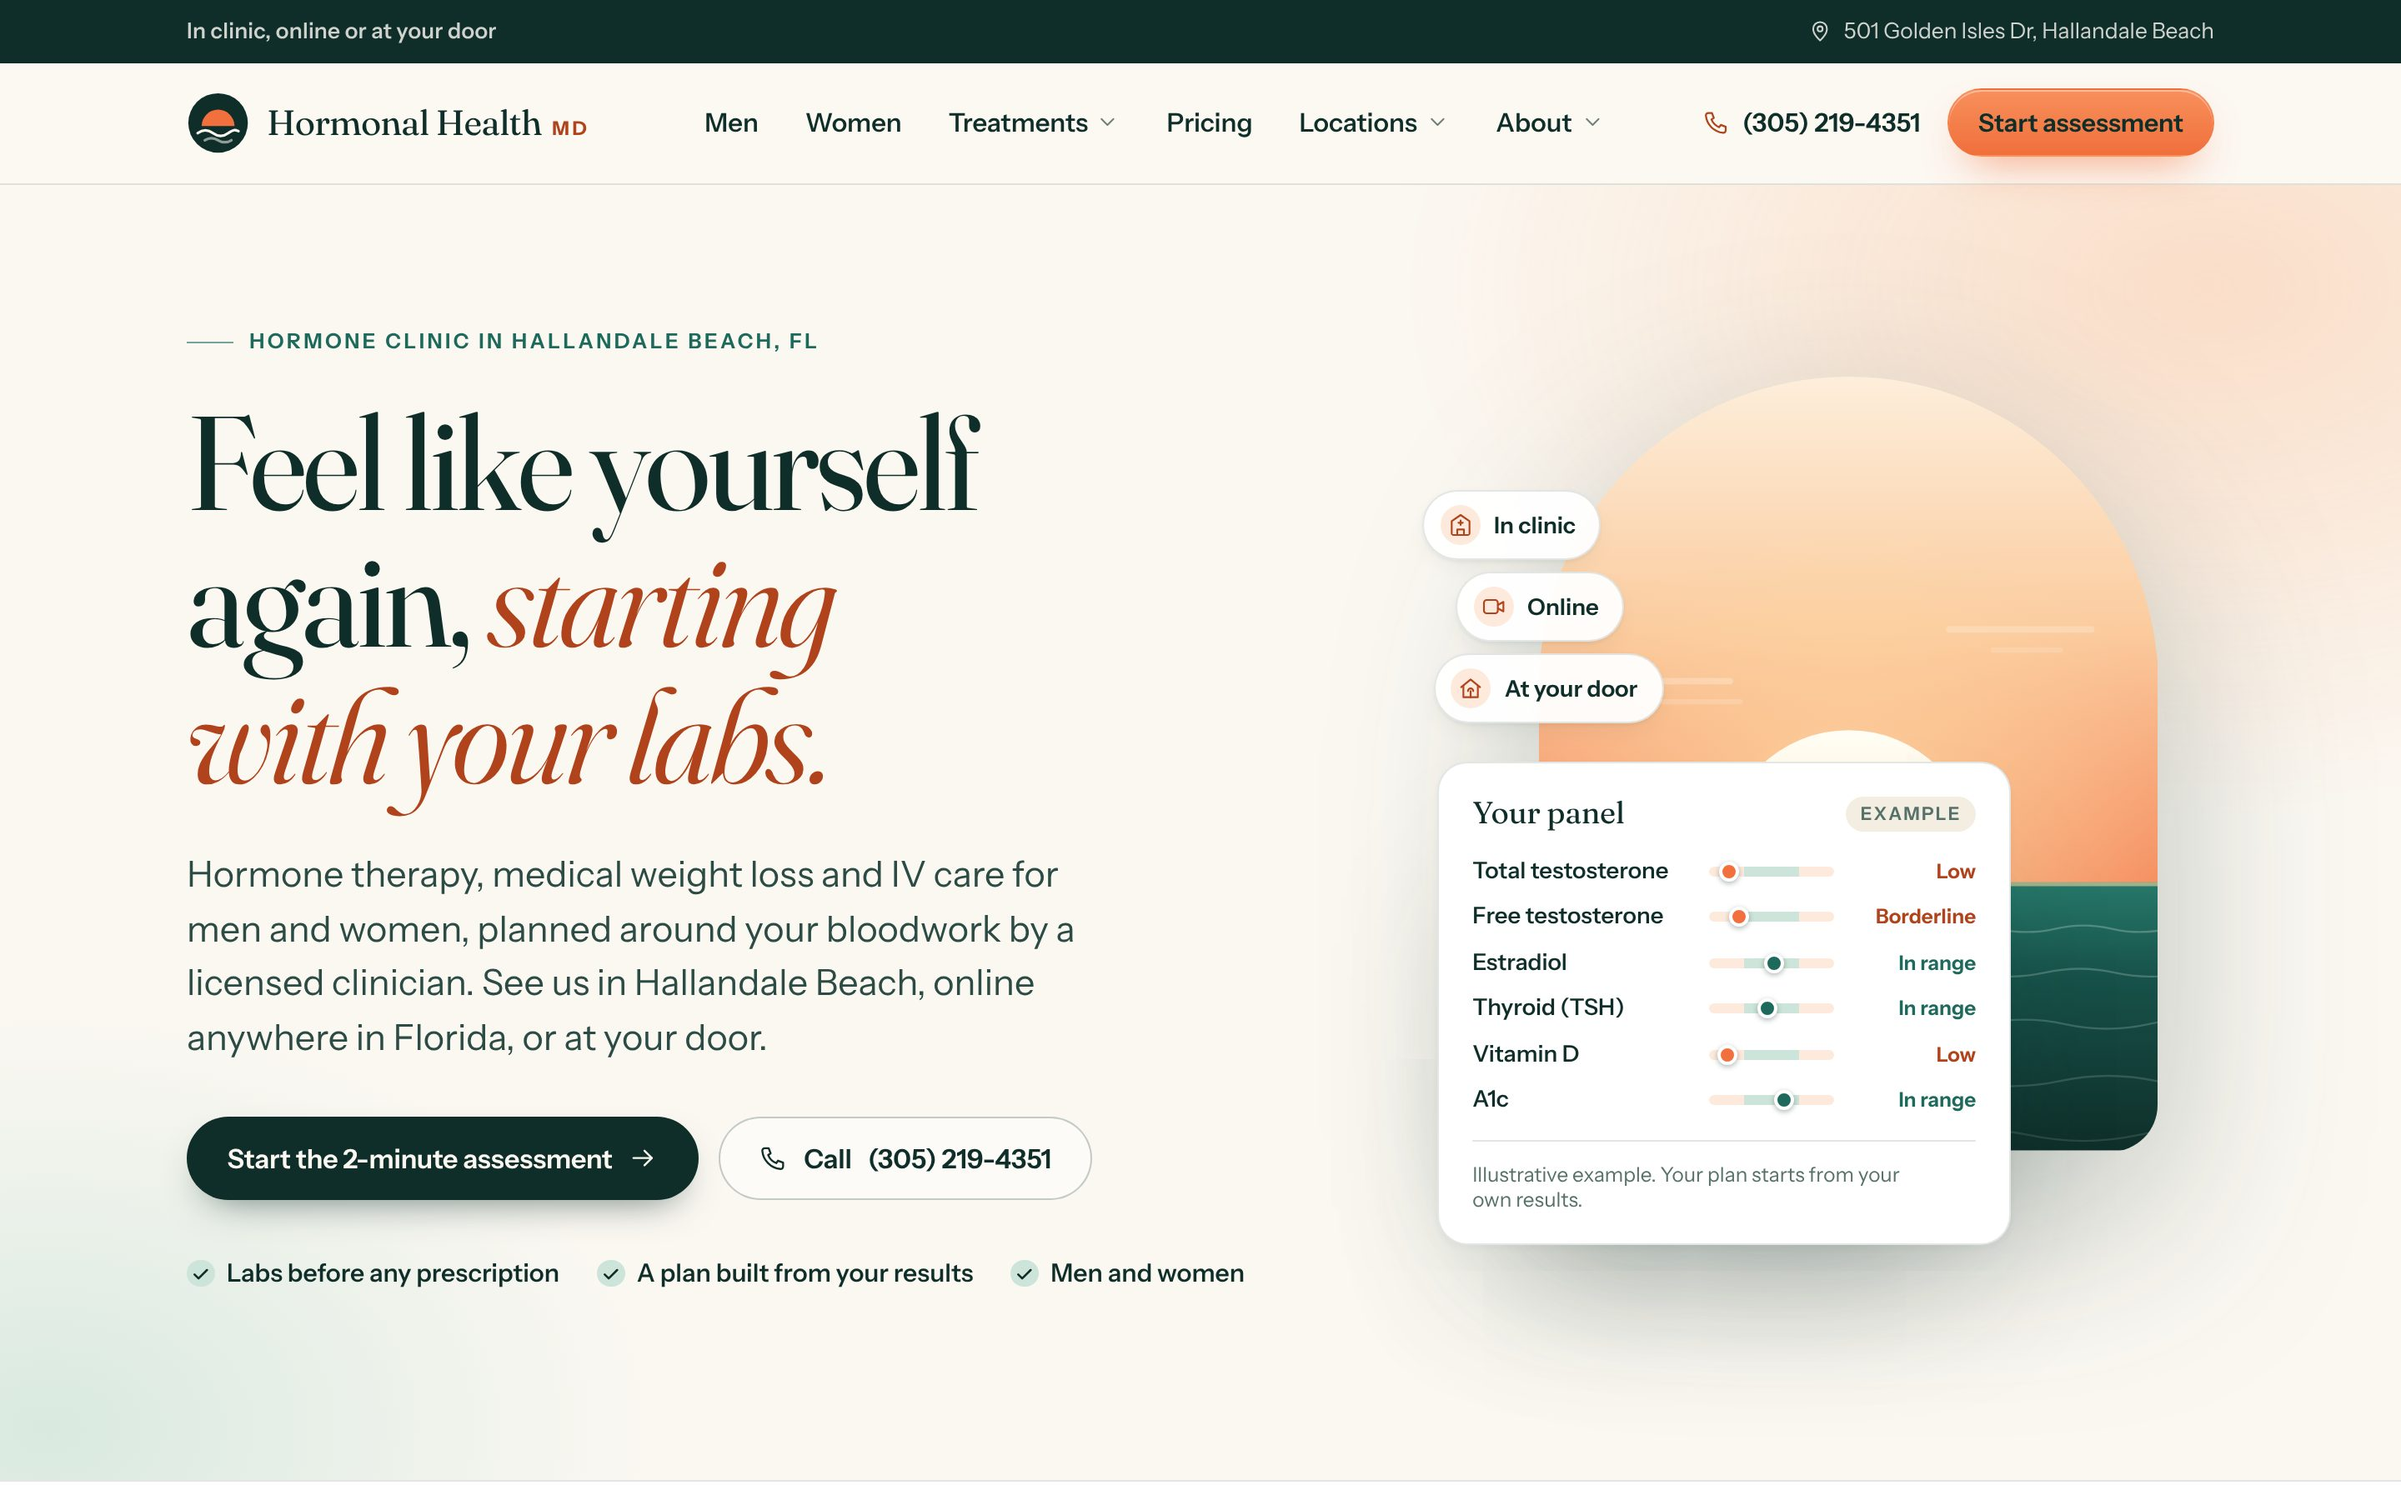
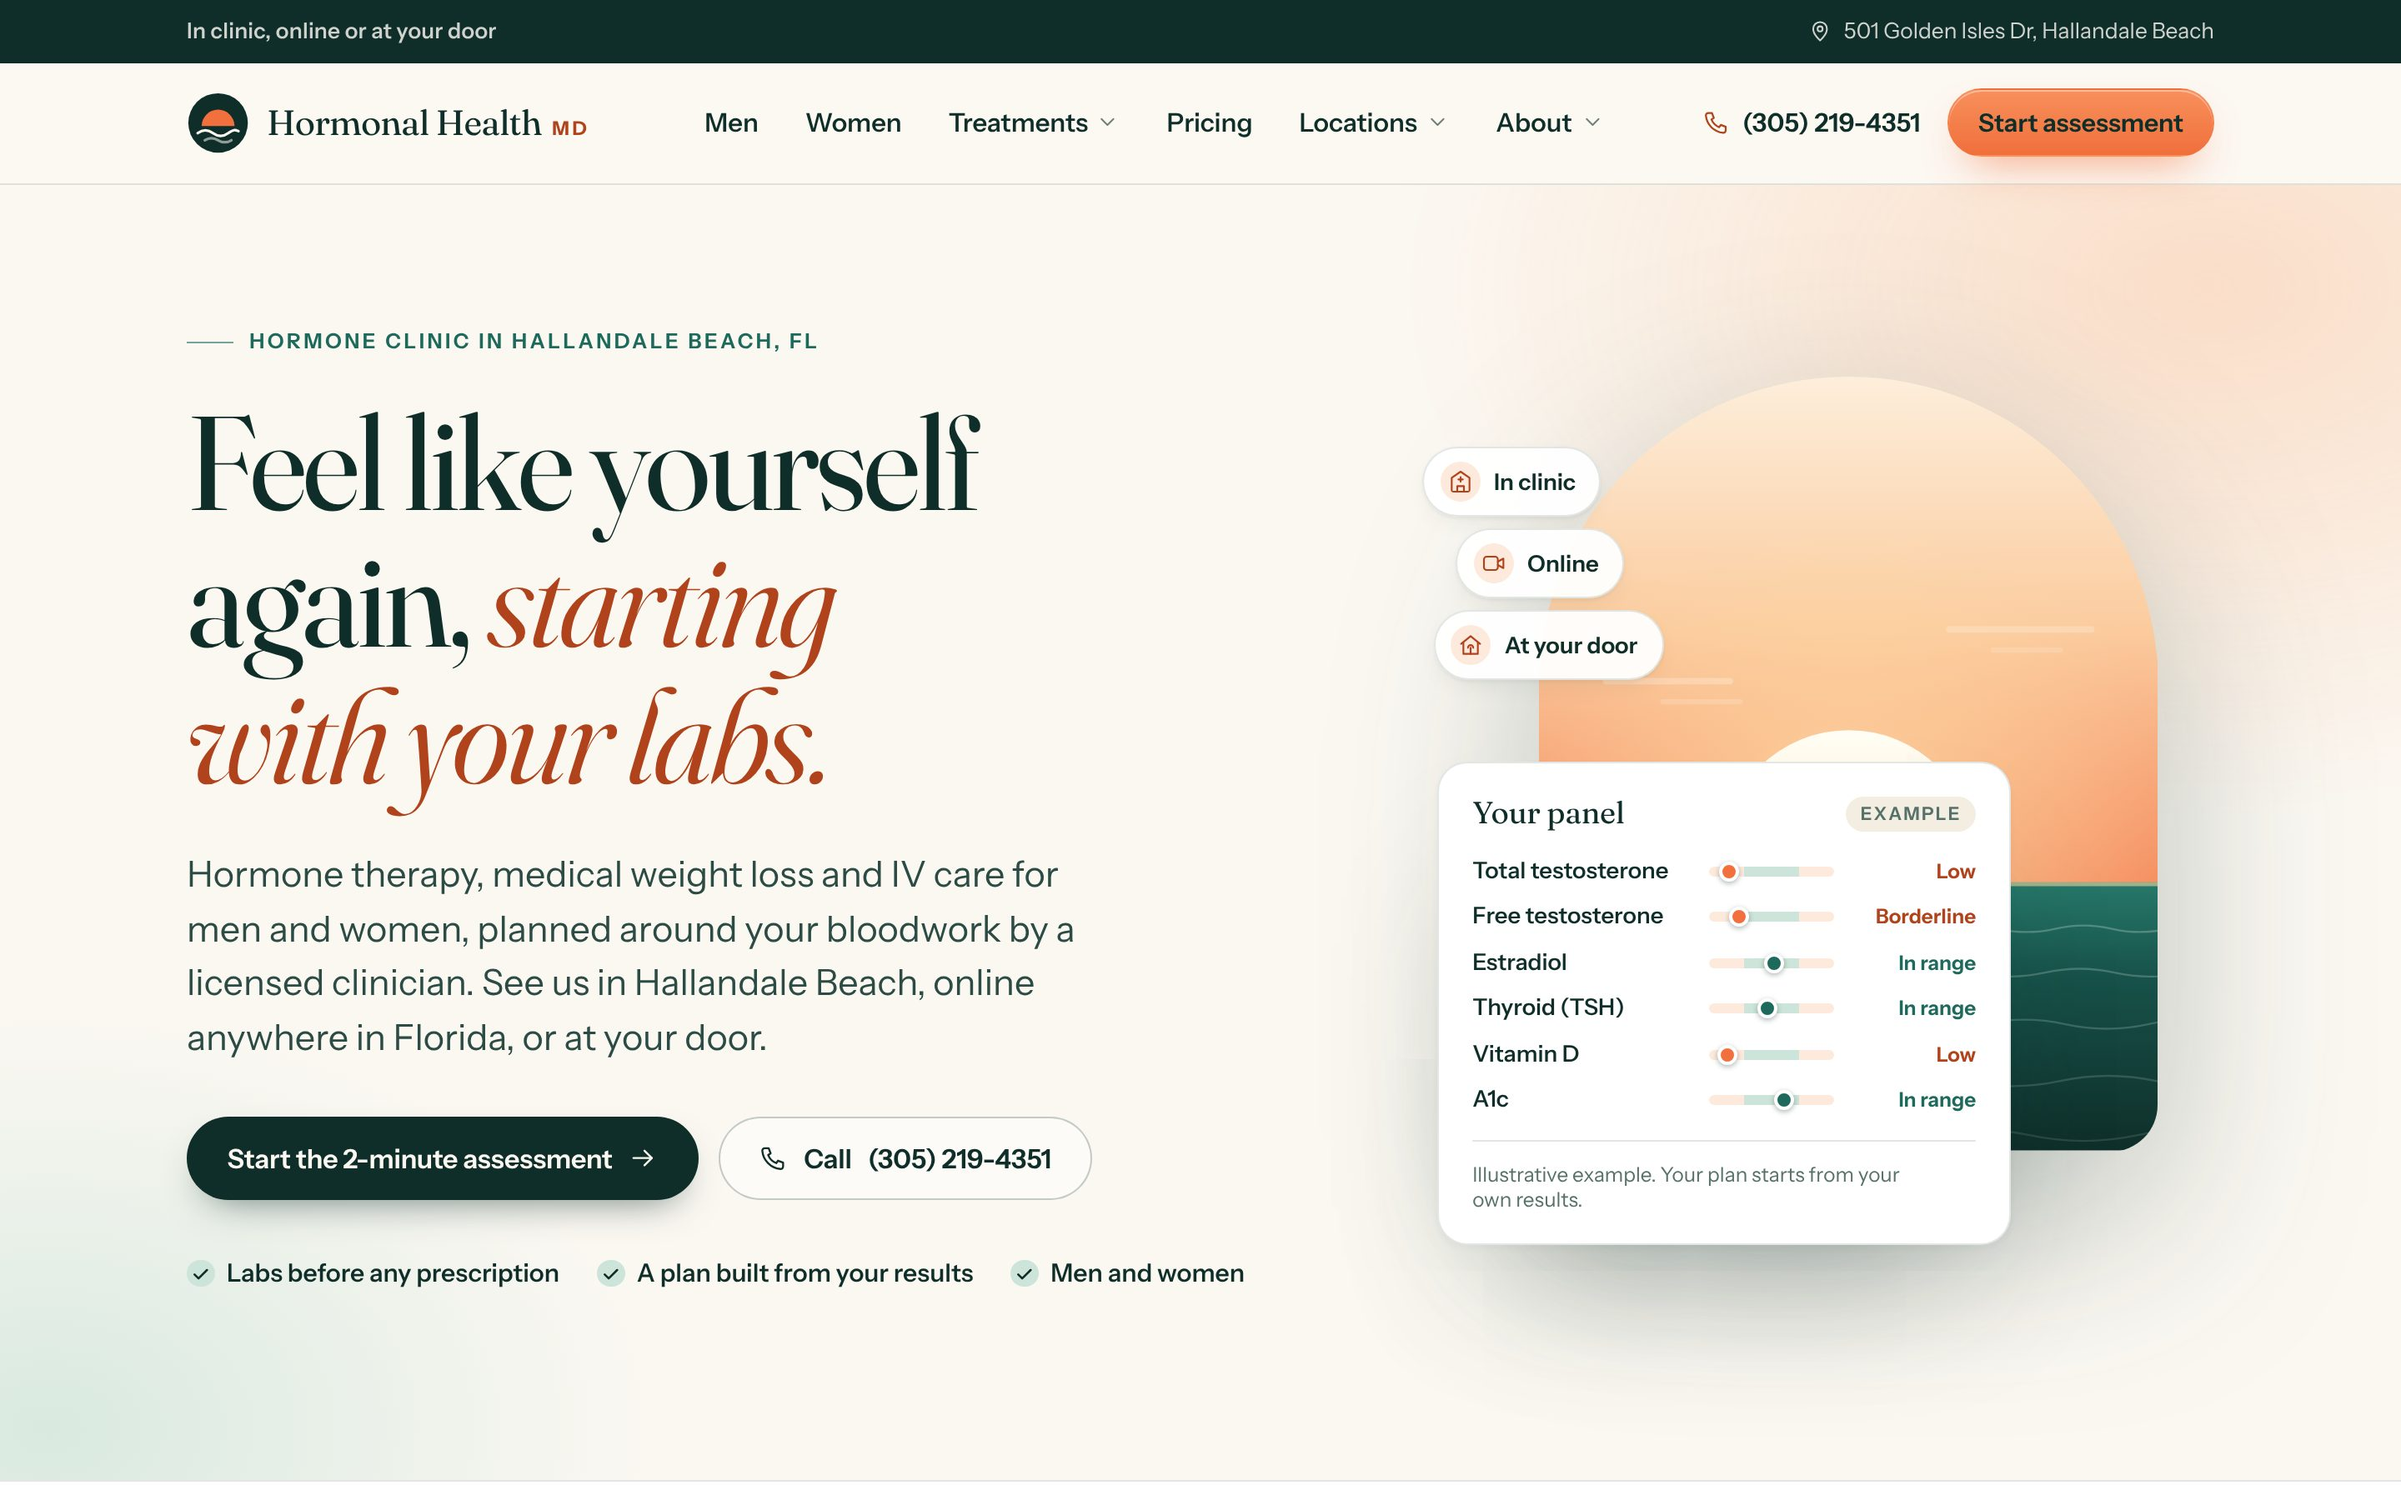
Fix 320px reflow and homepage layout shift
The header overflowed by 28px at 320px on every page; the logo now tightens
on very small screens. The homepage headline is three fixed lines with a
width-matched fallback font, taking throttled-mobile CLS from 0.078 to 0.001.

Claude-Session: https://claude.ai/code/session_017nhpWpo942X9PJEu4Qv7iV

Changed region(s): [[0.5938, 0.28, 0.7188, 0.4978]]

diff --git a/hormonal-health-md/src/styles/global.css b/hormonal-health-md/src/styles/global.css
@@ -11,6 +11,16 @@
   descent-override: 25%;
   line-gap-override: 0%;
 }
+/* Fraunces at display sizes is much narrower than Georgia. This fallback is scaled to
+   match, so a fixed-line headline does not spill while the web font loads. */
+@font-face {
+  font-family: 'Fraunces Display Fallback';
+  src: local('Georgia');
+  size-adjust: 86%;
+  ascent-override: 109%;
+  descent-override: 29%;
+  line-gap-override: 0%;
+}
 @font-face {
   font-family: 'Instrument Sans Fallback';
   src: local('Arial');

diff --git a/hormonal-health-md/docs/seo-report.md b/hormonal-health-md/docs/seo-report.md
@@ -16,8 +16,8 @@ The site is built, statically rendered and passes every automated check. It is *
 | Redirects | 14 of 14 land on a live page in one hop |
 | Highest copy overlap between two city pages | 18.8% (limit was about a third) |
 | Facts awaiting the clinic | 66 distinct, 228 markers across 34 pages |
-| Mobile lab performance | LCP 1.2 to 1.6s, CLS 0 to 0.08, no JavaScript files, about 300KB per page |
-| Accessibility and layout | 0 automated accessibility violations and 0 horizontal overflow across all 48 pages at phone, tablet and desktop widths |
+| Mobile lab performance | LCP 1.2 to 1.5s, CLS 0 to 0.03, no JavaScript files, about 300KB per page |
+| Accessibility and layout | 0 automated accessibility violations, and 0 horizontal overflow across all 48 pages at 320, 360, 390, 768 and 1440px |
 | Cited sources | 60 of 62 loaded and matched, 2 refuse automated requests |
 
 Three things to know before reading further:
@@ -289,6 +289,8 @@ A quality pass over the finished site, done on 10 November.
 | Area | What I found | What I did |
 | --- | --- | --- |
 | Phone layout | A long button label pushed 8 pages wider than the screen at 390px | Buttons now wrap on narrow screens. All 48 pages are clean at 390, 768 and 1440px. |
+| Very small screens | At 320px, the width WCAG's reflow rule tests, the logo and menu button made every page 28px too wide | The logo tightens below 376px. All 48 pages are clean at 320 and 360px. |
+| Layout shift | The homepage scored 0.078 on a throttled phone, just under the 0.1 limit, because the headline re-wrapped when the web font arrived | The headline is now three fixed lines with a width-matched fallback font. The homepage measures 0.001. |
 | Accessibility | Scrollable tables could not be reached by keyboard, the top bar sat outside a landmark, one table had an empty header cell | Fixed. An automated audit (axe-core, WCAG 2.1 A and AA plus best practice) now reports 0 violations on every page at phone and desktop widths. That is an automated result, not a manual screen reader test. |
 | Direct answers | About 40 sections opened with a one-line lead-in to a list instead of answering the question | Each was rewritten as a direct answer. The median first paragraph under a question heading is now about 42 words, and `npm run check` warns when one falls under 22. |
 | Claims about patients | Several city pages said where patients come from or who books, which I cannot know | Rewritten as plain geography, or replaced with a `[[CONFIRM]]` marker where it was really a coverage claim. |
